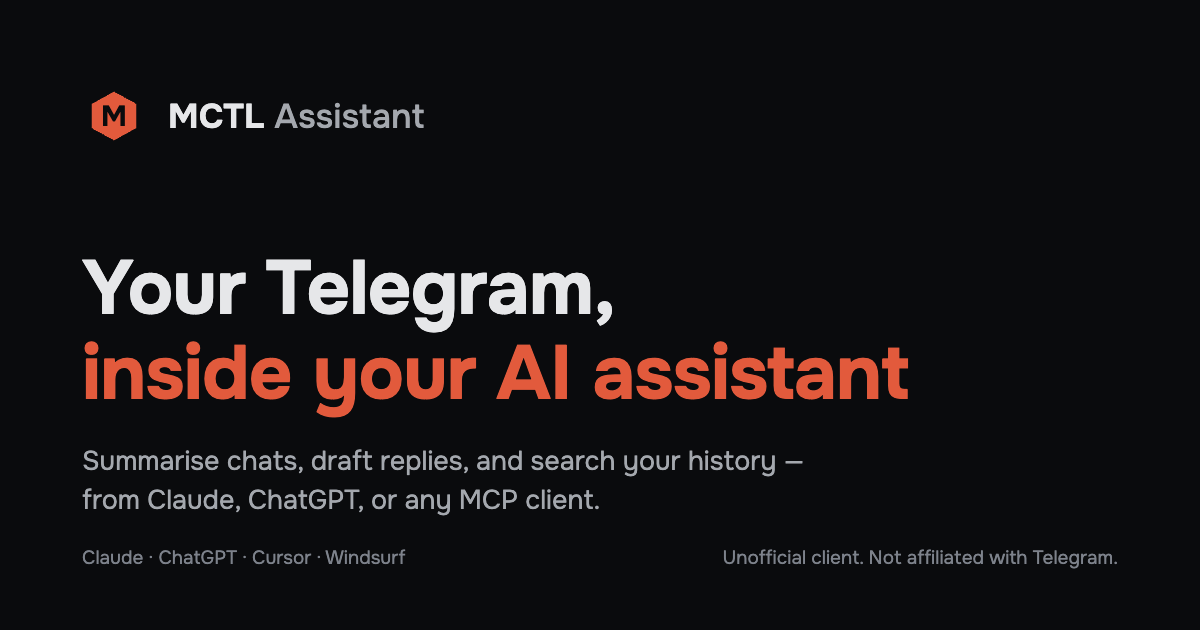
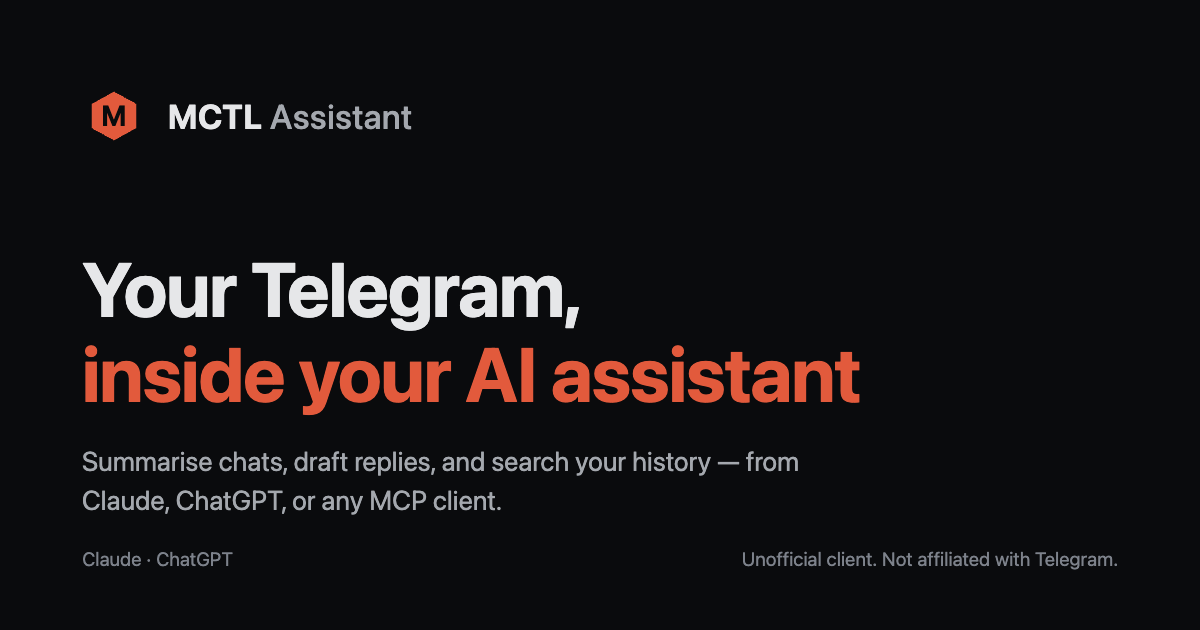
docs(site): correct claims on the public pages that the code contradicts
These pages are what people read before handing over a Telegram session. Audit
metadata was called encrypted, the third-party list left out the hosts and font
provider that do receive data, the privacy table was called complete while
job_leads and others were missing, and the smoke test promised a handshake that
returns 401. The stats labels also overstated: the tool call count shrinks with
audit retention, and "connected accounts" counts everyone who ever signed in.

Agent: claude
Claude-Session: https://claude.ai/code/session_01N6GXDiaym2AFwy43cuvJ51

diff --git a/internal/web/privacy.html b/internal/web/privacy.html
@@ -106,7 +106,7 @@
         <td><code>audit_logs</code> table</td>
         <td>Tool/action name, redacted peer reference, status, and a redacted error string. <strong>No message body, phone number, bearer token, or session bytes.</strong></td>
         <td>Operational visibility, abuse detection, and user-visible audit history</td>
-        <td>Default 90 days via <code>AUDIT_RETENTION_DAYS</code>; 0 keeps rows indefinitely</td>
+        <td>Default 90 days via <code>AUDIT_RETENTION_DAYS</code>; 0 keeps rows indefinitely. Account deletion does not remove these rows: they stay until that window ends. They are not encrypted.</td>
       </tr>
       <tr>
         <td>Process memory</td>
@@ -120,9 +120,46 @@
         <td>Operator debugging</td>
         <td>Per the platform's Loki retention (typically 14–30 days)</td>
       </tr>
+      <tr>
+        <td><code>job_leads</code></td>
+        <td>Job leads the Communication Agent records from your conversations: company, role, recruiter name and Telegram ID, compensation, status, and other details. These fields are not encrypted.</td>
+        <td>Tracking the leads the agent handles for you</td>
+        <td>Until account deletion. <code>AGENT_RETENTION_DAYS</code> does not apply.</td>
+      </tr>
+      <tr>
+        <td><code>oauth_refresh_tokens</code></td>
+        <td>A hash of each refresh token, the client's ID, name and redirect address, your Telegram ID and username, the granted scope, and issue, expiry and revocation times</td>
+        <td>Keeps your MCP client connected</td>
+        <td>Revoked by account deletion. The row is removed after the token expires.</td>
+      </tr>
+      <tr>
+        <td><code>local_bridge_devices</code></td>
+        <td>Device ID and label, registration and last-seen times, and revocation details</td>
+        <td>Local Bridge device management</td>
+        <td>Revoked by account deletion, and the row is kept as a revoked record</td>
+      </tr>
+      <tr>
+        <td><code>worker_token_revocations</code></td>
+        <td>Your Telegram ID, token ID, revocation time and reason</td>
+        <td>Makes sure a revoked worker token stays refused</td>
+        <td>Kept after account deletion</td>
+      </tr>
+      <tr>
+        <td><code>user_acquisition</code></td>
+        <td>The sign-up record described under <a href="#signup-attribution">Sign-up attribution</a></td>
+        <td>Learning which links bring people to the service</td>
+        <td>Removed by account deletion</td>
+      </tr>
+      <tr>
+        <td>Database backups</td>
+        <td>Copies of the database, including the tables above</td>
+        <td>Disaster recovery</td>
+        <td>14 days. Data deleted from the database can stay in a backup until then.</td>
+      </tr>
     </tbody>
   </table>
   </div>
+  <p class="muted">This table covers the main stores, not every internal table.</p>
 
   <h2>What is NOT stored in logs or audit history</h2>
   <ul>
@@ -139,7 +176,7 @@
   </div>
 
   <h2 id="website-analytics">Website analytics</h2>
-  <p>To learn how many people visit tg.mctl.ai and where they come from, the public content pages (home, docs, demo, security, privacy, terms, Local Bridge docs, and product updates) load Umami, an open-source analytics tool that we host ourselves at stats.mctl.ai. No analytics data is sent to a third party. Umami itself sets no cookies (this service sets one separate sign-up attribution cookie, described below). For each page view it records the page address (including campaign parameters such as <code>utm_source</code>), the referring site, browser, operating system, device type, screen size, language, and country, region, and city derived from your IP address. Your IP address and user agent are used to compute an anonymous visitor identifier; the IP address itself is not stored.</p>
+  <p>To learn how many people visit tg.mctl.ai and where they come from, the public content pages (home, docs, demo, security, privacy, terms, platforms, assistants, Local Bridge docs, and product updates) load Umami, an open-source analytics tool that we host ourselves at stats.mctl.ai. No analytics data is sent to a third party. Umami itself sets no cookies (this service sets one separate sign-up attribution cookie, described below). For each page view it records the page address (including campaign parameters such as <code>utm_source</code>), the referring site, browser, operating system, device type, screen size, language, and country, region, and city derived from your IP address. Your IP address and user agent are used to compute an anonymous visitor identifier; the IP address itself is not stored.</p>
   <p>The sign-in, consent, connect, and account-management pages under <code>/oauth</code>, <code>/telegram/connect</code>, and <code>/local-bridge/activate</code> do not load Umami, and no Telegram data, tool call, token, or account identifier is ever sent to it. Page-view records are deleted automatically 2 years after they were recorded.</p>
 
   <h2 id="signup-attribution">Sign-up attribution</h2>
@@ -180,6 +217,10 @@ PUT    /api/account/notifications   # change one or more categories</pre>
   <ul>
     <li><strong>Telegram</strong> (transport and identity) — the connected account uses Telegram MTProto, and sign-in uses Telegram OIDC.</li>
     <li><strong>Your MCP client provider</strong> — for example, Anthropic or OpenAI — processes the conversation and tool traffic you send through that product.</li>
+    <li><strong>Hetzner</strong> (hosting) — the service and its database run on Hetzner Cloud servers.</li>
+    <li><strong>Cloudflare</strong> (network and backups) — traffic to tg.mctl.ai passes through Cloudflare, which can read it while forwarding it. Database backups are stored in Cloudflare R2.</li>
+    <li><strong>Google Fonts</strong> — public content pages load web fonts from Google, so your browser sends your IP address to Google when you open them.</li>
+    <li><strong>The AI model provider behind Communication Agent</strong> — when the agent is enabled, the model that runs it receives the Telegram messages and context it works on, in readable form.</li>
     <li>No advertising or third-party analytics is injected by this service. Public content pages count visits with Umami, which we host ourselves (see <a href="#website-analytics">Website analytics</a>). OAuth/session-management pages use strict CSP and load no analytics; public content pages load the mctl design stylesheet and web fonts for presentation.</li>
   </ul>
 

diff --git a/internal/web/landing.html b/internal/web/landing.html
@@ -309,12 +309,12 @@
     </div>
     {{if .Stats}}
     <div class="stats-strip" id="stats" aria-label="Usage so far">
-      <div class="stat"><span class="stat__value" data-stat="tool_calls_total">{{fmtCount .Stats.ToolCallsTotal}}</span><span class="stat__label">tool calls</span></div>
-      <div class="stat"><span class="stat__value" data-stat="accounts_total">{{fmtCount .Stats.AccountsTotal}}</span><span class="stat__label">connected accounts</span></div>
+      <div class="stat"><span class="stat__value" data-stat="tool_calls_total">{{fmtCount .Stats.ToolCallsTotal}}</span><span class="stat__label">tool calls, last 90 days</span></div>
+      <div class="stat"><span class="stat__value" data-stat="accounts_total">{{fmtCount .Stats.AccountsTotal}}</span><span class="stat__label">accounts</span></div>
       <div class="stat"><span class="stat__value" data-stat="active_users_30d">{{fmtCount .Stats.ActiveUsers30d}}</span><span class="stat__label">active last 30 days</span></div>
       <div class="stat"><span class="stat__value" data-stat="sessions_connected">{{fmtCount .Stats.SessionsConnected}}</span><span class="stat__label">connected sessions</span></div>
     </div>
-    <p class="stats-note"><span class="live-dot" aria-hidden="true"></span><span>live · since Aug 2026 · updated <time id="stats-updated" datetime="{{.Stats.UpdatedAt.Format "2006-01-02T15:04:05Z07:00"}}">{{.Stats.UpdatedAt.Format "15:04"}} UTC</time></span></p>
+    <p class="stats-note"><span class="live-dot" aria-hidden="true"></span><span>live · updated <time id="stats-updated" datetime="{{.Stats.UpdatedAt.Format "2006-01-02T15:04:05Z07:00"}}">{{.Stats.UpdatedAt.Format "15:04"}} UTC</time></span></p>
     {{end}}
     <p class="hero-legal">MCTL Assistant is an unofficial third-party connector using the Telegram API. Not affiliated with Telegram, Anthropic or OpenAI.</p>
     </div>
@@ -399,8 +399,8 @@
     <div class="data-grid">
       <div class="data-cell">
         <span class="mono-label">Stored, encrypted</span>
-        <span class="big">Telegram session and audit metadata</span>
-        <span class="small">AES-256-GCM, a separate key per user. When Communication Agent is enabled, relevant message and action content is also stored encrypted at rest; see the retention details in <a href="/privacy">/privacy</a>.</span>
+        <span class="big">Telegram session</span>
+        <span class="small">AES-256-GCM, with a key derived per user from one service key. Audit metadata (tool name, redacted peer, status) is stored without this encryption. When Communication Agent is enabled, relevant message and action content is also stored encrypted at rest; see the retention details in <a href="/privacy">/privacy</a>.</span>
       </div>
       <div class="data-cell">
         <span class="mono-label">Not stored in logs or audit history</span>
@@ -409,7 +409,7 @@
       <div class="data-cell">
         <span class="mono-label">You control</span>
         <span class="big">Disconnect or delete your account at any time</span>
-        {{if .ShowManage}}<span class="small">On the <a href="/telegram/connect/manage">manage</a> page, or with MCP tools.</span>{{end}}
+        {{if .ShowManage}}<span class="small">Disconnect on the <a href="/telegram/connect/manage">manage</a> page or with MCP tools. Delete with an MCP tool or the API.</span>{{end}}
       </div>
     </div>
     <div class="links-row">

diff --git a/internal/web/docs.html b/internal/web/docs.html
@@ -164,7 +164,7 @@
       <li><strong>Audit log:</strong> tool name, redacted peer reference, status, and error — <strong style="color: var(--text)">never the message body, phone number, or session bytes</strong>. Kept for 90 days by default.</li>
       <li><strong>Account row:</strong> your Telegram ID and access tier. Deleting your account clears your username, names, and last-seen time; the ID stays so a later sign-in is matched and an authorization code issued before the delete cannot be used after it.</li>
     </ul>
-    <p>The complete inventory, with every table and its retention, is in the <a href="/privacy">privacy policy</a>.</p>
+    <p>The main stores and their retention are listed in the <a href="/privacy">privacy policy</a>.</p>
   </section>
 
   <!-- ============ 05 Controls ============ -->
@@ -188,10 +188,10 @@
     <div class="section-head">
       <h2>Smoke test from your terminal</h2>
     </div>
-    <p>Confirm the well-known and a JSON-RPC handshake before adding the connector:</p>
+    <p>Confirm the well-known and the OAuth challenge before adding the connector. Without a token, the second call returns <code>401</code> with a <code>WWW-Authenticate</code> header that points at the well-known:</p>
 <pre><code>curl -s {{.WellKnownURL}}
 
-curl -s -X POST {{.MCPURL}} \
+curl -si -X POST {{.MCPURL}} \
   -H "Content-Type: application/json" \
   -H "Accept: application/json, text/event-stream" \
   -d '{"jsonrpc":"2.0","id":1,"method":"initialize",

diff --git a/internal/web/security.html b/internal/web/security.html
@@ -196,7 +196,7 @@
   </ul>
 
   <h2 id="rate-limiting">Rate limiting</h2>
-  <p>The default per-identity token bucket is 30 requests/minute with the same burst. Write paths additionally use per-peer limits so one recipient cannot be targeted up to the global ceiling. Public and well-known endpoints are limited at the ingress layer.</p>
+  <p>The default per-identity token bucket is 30 requests/minute with the same burst. Write paths additionally use per-peer limits so one recipient cannot be targeted up to the global ceiling.</p>
 
   <h2 id="session-ttl">Session TTL</h2>
   <ul>

diff --git a/internal/web/assistants.html b/internal/web/assistants.html
@@ -211,7 +211,7 @@
       </tbody>
     </table>
     </div>
-    <p class="muted"><code>auto</code> replies on its own within the limits; <code>approve</code> waits for you; actions in the <code>never</code> tier are always blocked.</p>
+    <p class="muted">In <code>guarded</code> mode, <code>auto</code> replies on its own within the limits. In <code>observe</code> mode, every reply waits for you. <code>approve</code> waits for you in either mode; actions in the <code>never</code> tier are always blocked.</p>
     {{else}}
     <p class="muted">None.</p>
     {{end}}

diff --git a/internal/web/productupdates.html b/internal/web/productupdates.html
@@ -39,7 +39,7 @@
     </div>
     {{range .Entries}}
     <div class="update-entry">
-      <h3>{{.Title}}{{if .DocsOnly}} <span class="muted">(docs only)</span>{{end}}</h3>
+      <h3>{{.Title}}{{if .DocsOnly}} <span class="muted">(not sent as a message)</span>{{end}}</h3>
       <p class="muted">{{.Kind}}{{if .Tools}} · {{range $i, $t := .Tools}}{{if $i}}, {{end}}{{$t}}{{end}}{{end}}</p>
       <p>{{.Summary}}</p>
       {{if .Links}}

diff --git a/docs/brand/og-card.html b/docs/brand/og-card.html
@@ -56,7 +56,7 @@
   <h1>Your Telegram,<br><em>inside your AI assistant</em></h1>
   <p>Summarise chats, draft replies, and search your history &mdash; from Claude, ChatGPT, or any MCP client.</p>
   <footer>
-    <span>Claude &middot; ChatGPT &middot; Cursor &middot; Windsurf</span>
+    <span>Claude &middot; ChatGPT</span>
     <span>Unofficial client. Not affiliated with Telegram.</span>
   </footer>
 </body>

diff --git a/internal/db/public_stats.go b/internal/db/public_stats.go
@@ -17,8 +17,8 @@ type PublicStats struct {
 	// AccountsTotal is the number of users who signed in with Telegram and
 	// have not deleted their account.
 	AccountsTotal int64
-	// ToolCallsTotal is the number of successful MCP tool invocations ever
-	// recorded in audit_logs, excluding connect steps, Local Bridge keepalive
+	// ToolCallsTotal is the number of successful MCP tool invocations still
+	// held in audit_logs, so it covers the audit retention window, excluding connect steps, Local Bridge keepalive
 	// traffic and web form posts.
 	ToolCallsTotal int64
 	// ActiveUsers30d is the number of distinct users with at least one such

diff --git a/internal/web/productupdates_test.go b/internal/web/productupdates_test.go
@@ -46,7 +46,7 @@ func TestProductUpdatesPage_ListsGroupsAndOmitsProvenance(t *testing.T) {
 		t.Fatalf("status = %d", w.Code)
 	}
 	body := w.Body.String()
-	for _, want := range []string{"0.70.0", "0.69.0", "Send messages send-message", "Send messages list-dialogs", "Send messages docs-note", "(docs only)"} {
+	for _, want := range []string{"0.70.0", "0.69.0", "Send messages send-message", "Send messages list-dialogs", "Send messages docs-note", "(not sent as a message)"} {
 		if !strings.Contains(body, want) {
 			t.Fatalf("page missing %q:\n%s", want, body)
 		}
